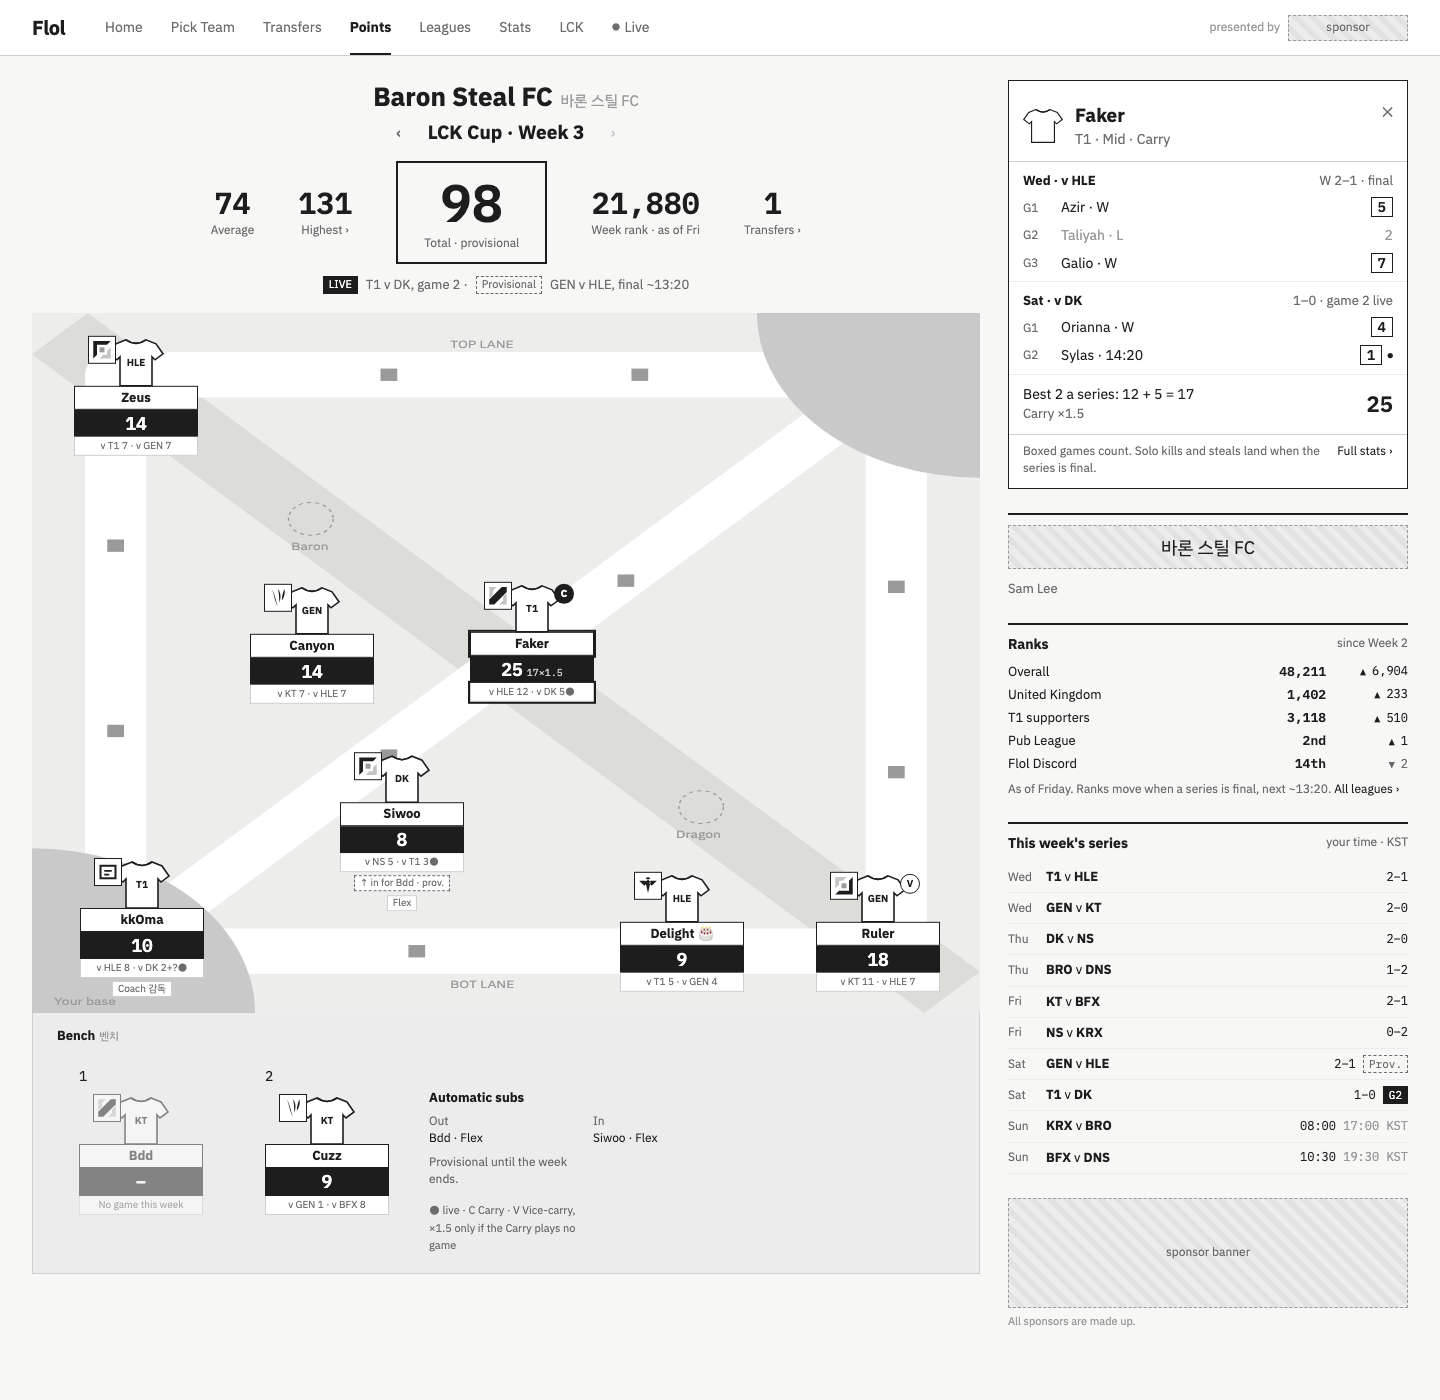
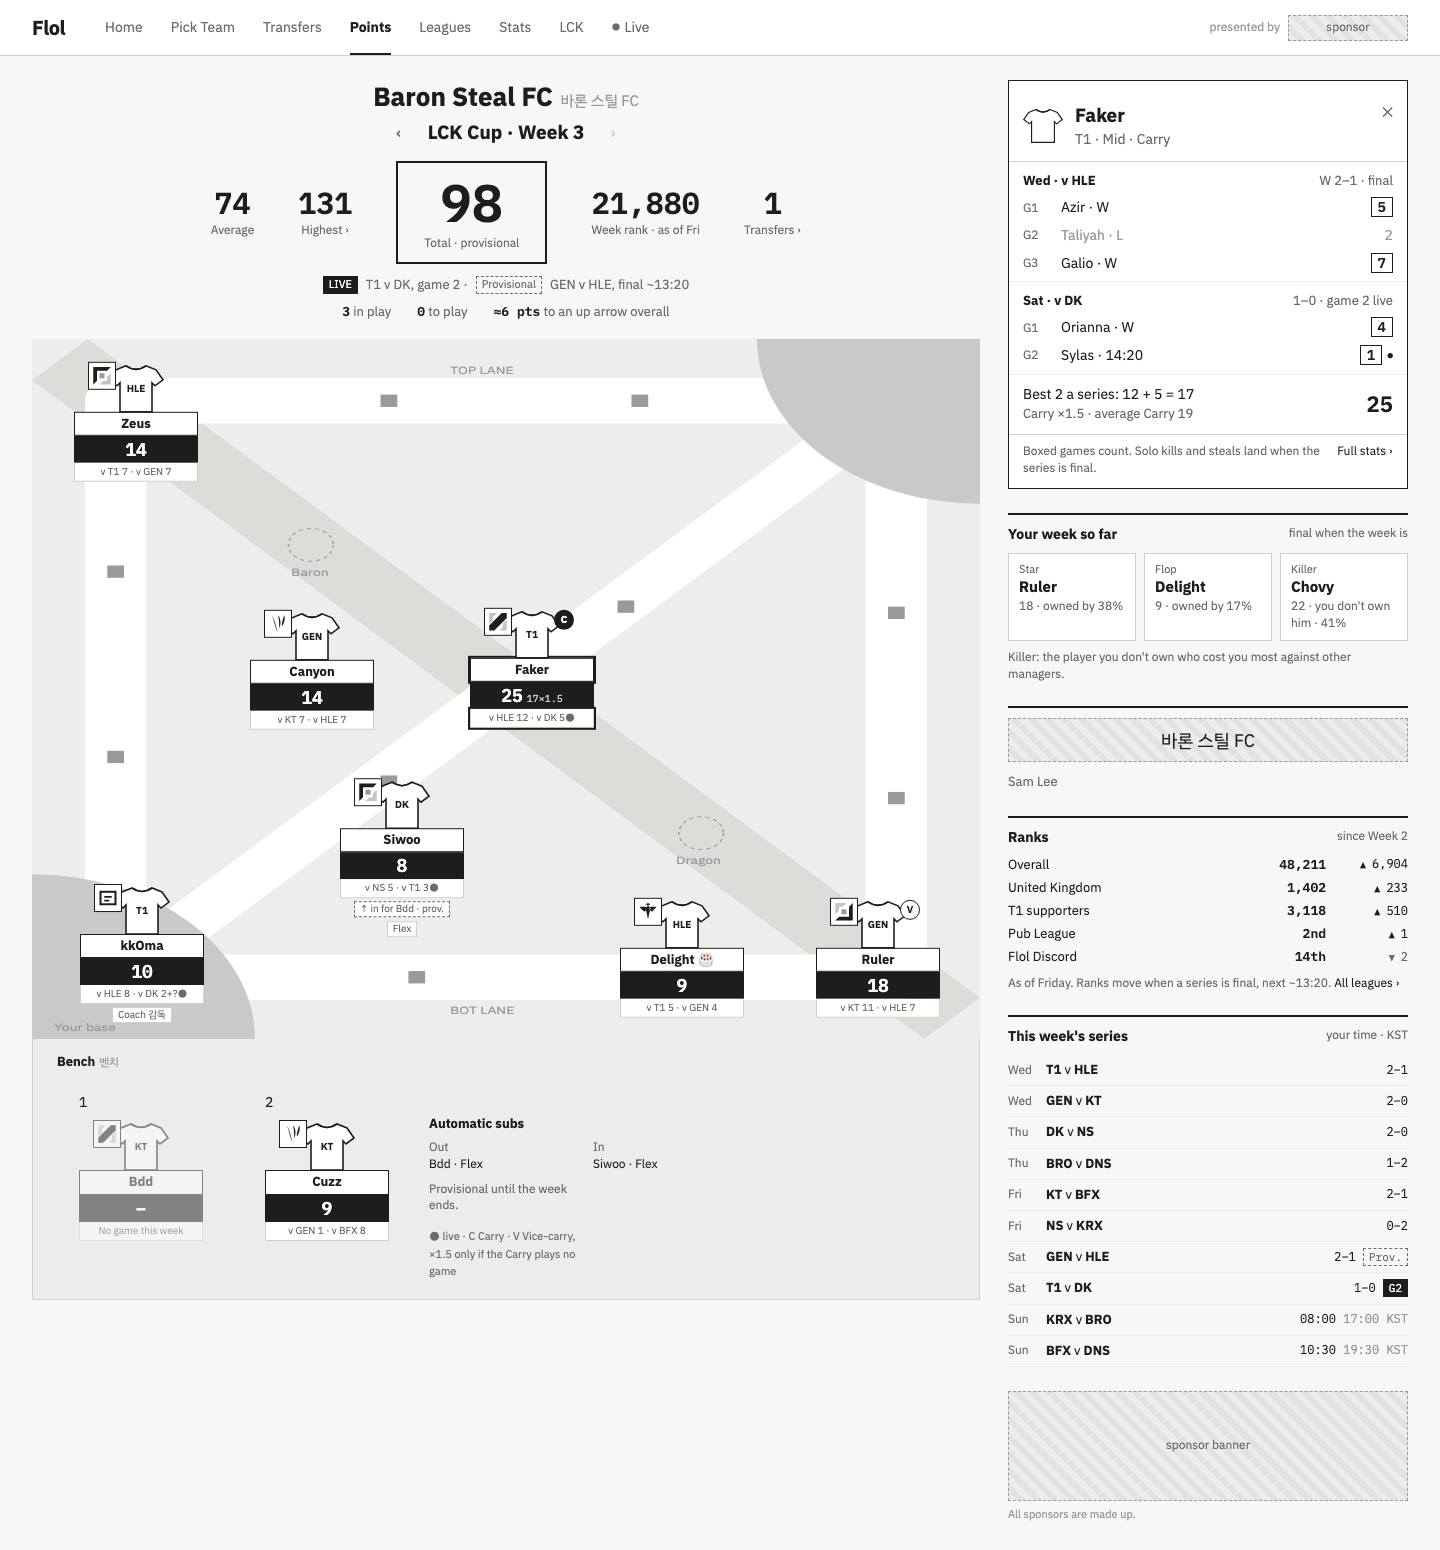
docs: Points picks from LiveFPL; arrow gap, in play, Carry average, star flop killer

diff --git a/docs/design/approved/points/points.html b/docs/design/approved/points/points.html
@@ -125,6 +125,11 @@ aside .pl header b { font-size: 19px; display: block; } aside .pl header .x { ma
 .pl .sum { padding: 10px 14px; display: flex; justify-content: space-between; align-items: center; border-bottom: 1px solid var(--line); }
 .pl .sum b { font-family: "IBM Plex Mono", monospace; font-size: 22px; }
 .pl .ft { padding: 8px 14px 12px; font-size: 12px; color: var(--mid); display: flex; justify-content: space-between; gap: 10px; } .pl .ft a { color: var(--ink); white-space: nowrap; }
+.st3 { display: flex; justify-content: center; gap: 26px; font-size: 13px; color: var(--mid); margin-top: 8px; }
+.st3 b { color: var(--ink); font-family: "IBM Plex Mono", monospace; }
+.sfk { display: grid; grid-template-columns: repeat(3, 1fr); gap: 8px; }
+.sfk div { border: 1px solid var(--line); background: var(--paper); padding: 8px 10px; font-size: 12px; color: var(--mid); }
+.sfk .k { display: block; font-size: 11px; text-transform: none; } .sfk b { display: block; color: var(--ink); font-size: 15px; }
 </style></head>
 <body>
 <svg width="0" height="0" style="position:absolute">
@@ -150,7 +155,8 @@ aside .pl header b { font-size: 19px; display: block; } aside .pl header .x { ma
     <div class="stats"><div><b>74</b><span>Average</span></div><div><b>131</b><span>Highest ›</span></div>
       <div class="tot"><b id="total"></b><span>Total · provisional</span></div>
       <div><b>21,880</b><span>Week rank · as of Fri</span></div><div><b>1</b><span>Transfers ›</span></div></div>
-    <div class="st2"><span class="tag live">LIVE</span> T1 v DK, game 2 · <span class="tag prov">Provisional</span> GEN v HLE, final ~13:20</div></div>
+    <div class="st2"><span class="tag live">LIVE</span> T1 v DK, game 2 · <span class="tag prov">Provisional</span> GEN v HLE, final ~13:20</div>
+    <div class="st3"><span><b>3</b> in play</span><span><b>0</b> to play</span><span><b>≈6 pts</b> to an up arrow overall</span></div></div>
   <div class="rift" id="rift"><svg class="map" viewBox="0 0 680 680" preserveAspectRatio="none">
         <rect x="0" y="0" width="680" height="680" fill="#ededeb"/>
         <!-- river: top-left to bottom-right -->
@@ -182,8 +188,13 @@ aside .pl header b { font-size: 19px; display: block; } aside .pl header .x { ma
     <div class="ser"><h4>Sat · v DK <span>1–0 · game 2 live</span></h4>
       <div class="g"><span class="r">G1</span><span>Orianna · W</span><span class="p"><span class="box">4</span></span></div>
       <div class="g live"><span class="r">G2</span><span>Sylas · 14:20</span><span class="p"><span class="box">1</span></span></div></div>
-    <div class="sum"><span>Best 2 a series: 12 + 5 = 17<br><span style="color:var(--mid);font-size:13px">Carry ×1.5</span></span><b>25</b></div>
+    <div class="sum"><span>Best 2 a series: 12 + 5 = 17<br><span style="color:var(--mid);font-size:13px">Carry ×1.5 · average Carry 19</span></span><b>25</b></div>
     <div class="ft"><span>Boxed games count. Solo kills and steals land when the series is final.</span><a>Full stats ›</a></div></section>
+  <section><h2>Your week so far <span>final when the week is</span></h2>
+    <div class="sfk"><div><span class="k">Star</span><b>Ruler</b><span>18 · owned by 38%</span></div>
+    <div><span class="k">Flop</span><b>Delight</b><span>9 · owned by 17%</span></div>
+    <div><span class="k">Killer</span><b>Chovy</b><span>22 · you don't own him · 41%</span></div></div>
+    <div class="note2">Killer: the player you don't own who cost you most against other managers.</div></section>
   <section class="mgr"><div class="banner ph" id="hangul"></div><span id="mname"></span></section>
   <section><h2>Ranks <span>since Week 2</span></h2><div class="rk" id="ranks"></div>
     <div class="note2">As of Friday. Ranks move when a series is final, next ~13:20. <a style="color:var(--ink)">All leagues ›</a></div></section>

diff --git a/docs/design/approved/points/README.md b/docs/design/approved/points/README.md
@@ -8,15 +8,17 @@ Names, teams and numbers are a made-up LCK Cup week, not roster data. No `plate.
 
 ## Borrowed
 
+- **LiveFPL (livefpl.net)**: points to the next arrow, in play and to play counts, your captain against the average, and star, flop and killer. Craig picked these four on 13 Nov 2026; each needs a grill (`docs/to-grill.md`).
+
 - **FPL's desktop Points page**: the header row (average, highest, the big total box, week rank, transfers), the bench strip under the squad, the Out/In auto-sub table, a click on a player opening his breakdown. Research: `docs/research/points-page-references.md`.
 - **Summoner's Rift**: the squad stands on the map, with LoL's position icons and team shirts (Craig, 13 Nov 2026).
 
 ## Layout
 
-- **Header:** team name and its hangul; ‹ week ›; average · highest · **total** (provisional while a series is live or not final) · week rank (as of the last final series) · transfers; one line naming the live and provisional series.
+- **Header:** team name and its hangul; ‹ week ›; average · highest · **total** (provisional while a series is live or not final) · week rank (as of the last final series) · transfers; one line naming the live and provisional series; then how many of your players are in play and to play, and roughly how many points you need for an up arrow overall.
 - **Left:** the Rift, each starter in his lane: shirt, role icon, name, points, each series' points; C and V marks; Flex and Coach labelled; a live dot.
 - **Under the Rift:** the bench, then the Automatic subs table (Out / In), provisional until the series is final.
-- **Right:** the tapped player's games (the player card's This week tab, spec/12; the card's header, buttons and other tabs aren't drawn here), then the hangul banner and manager name, Ranks, the week's series, the sponsor slot.
+- **Right:** the tapped player's games, with the average Carry's points beside a Carry's, (the player card's This week tab, spec/12; the card's header, buttons and other tabs aren't drawn here), then Your week so far (star, flop and killer: the player you don't own who cost you most), then the hangul banner and manager name, Ranks, the week's series, the sponsor slot.
 
 ## Controls
 

diff --git a/docs/to-grill.md b/docs/to-grill.md
@@ -25,6 +25,17 @@ heads, teams, champions), never FPL-style stat trophies; once a year, worth a po
 Claude's drafts and their sources are in
 [docs/research/achievement-memes.md](research/achievement-memes.md); none is the product.
 
+## Points page extras, from LiveFPL (Craig, 13 Nov 2026)
+
+Drawn on the Points picture (`docs/design/approved/points/`); none is the product until grilled:
+
+- Points to an up arrow overall, while live. Rank only moves at final (spec/11), so this is an
+  estimate in points, never a live rank. How is it worked out, and how sure must it be to show?
+- In play and to play: how many of your starters are in a live series, and how many still have one.
+- Your Carry's points against the average Carry's. Average over whom: everyone, or the top 10k?
+- Star, flop and killer for the week. Killer: the player you don't own who cost you most against
+  other managers. Needs ownership per player.
+
 ## Open from the foundations work (11 Nov 2026)
 
 - The screens and the look ([docs/design/](design/)). Craig likes the Rift view with team shirts, and asked whether player portraits can appear too (11 Nov 2026).
